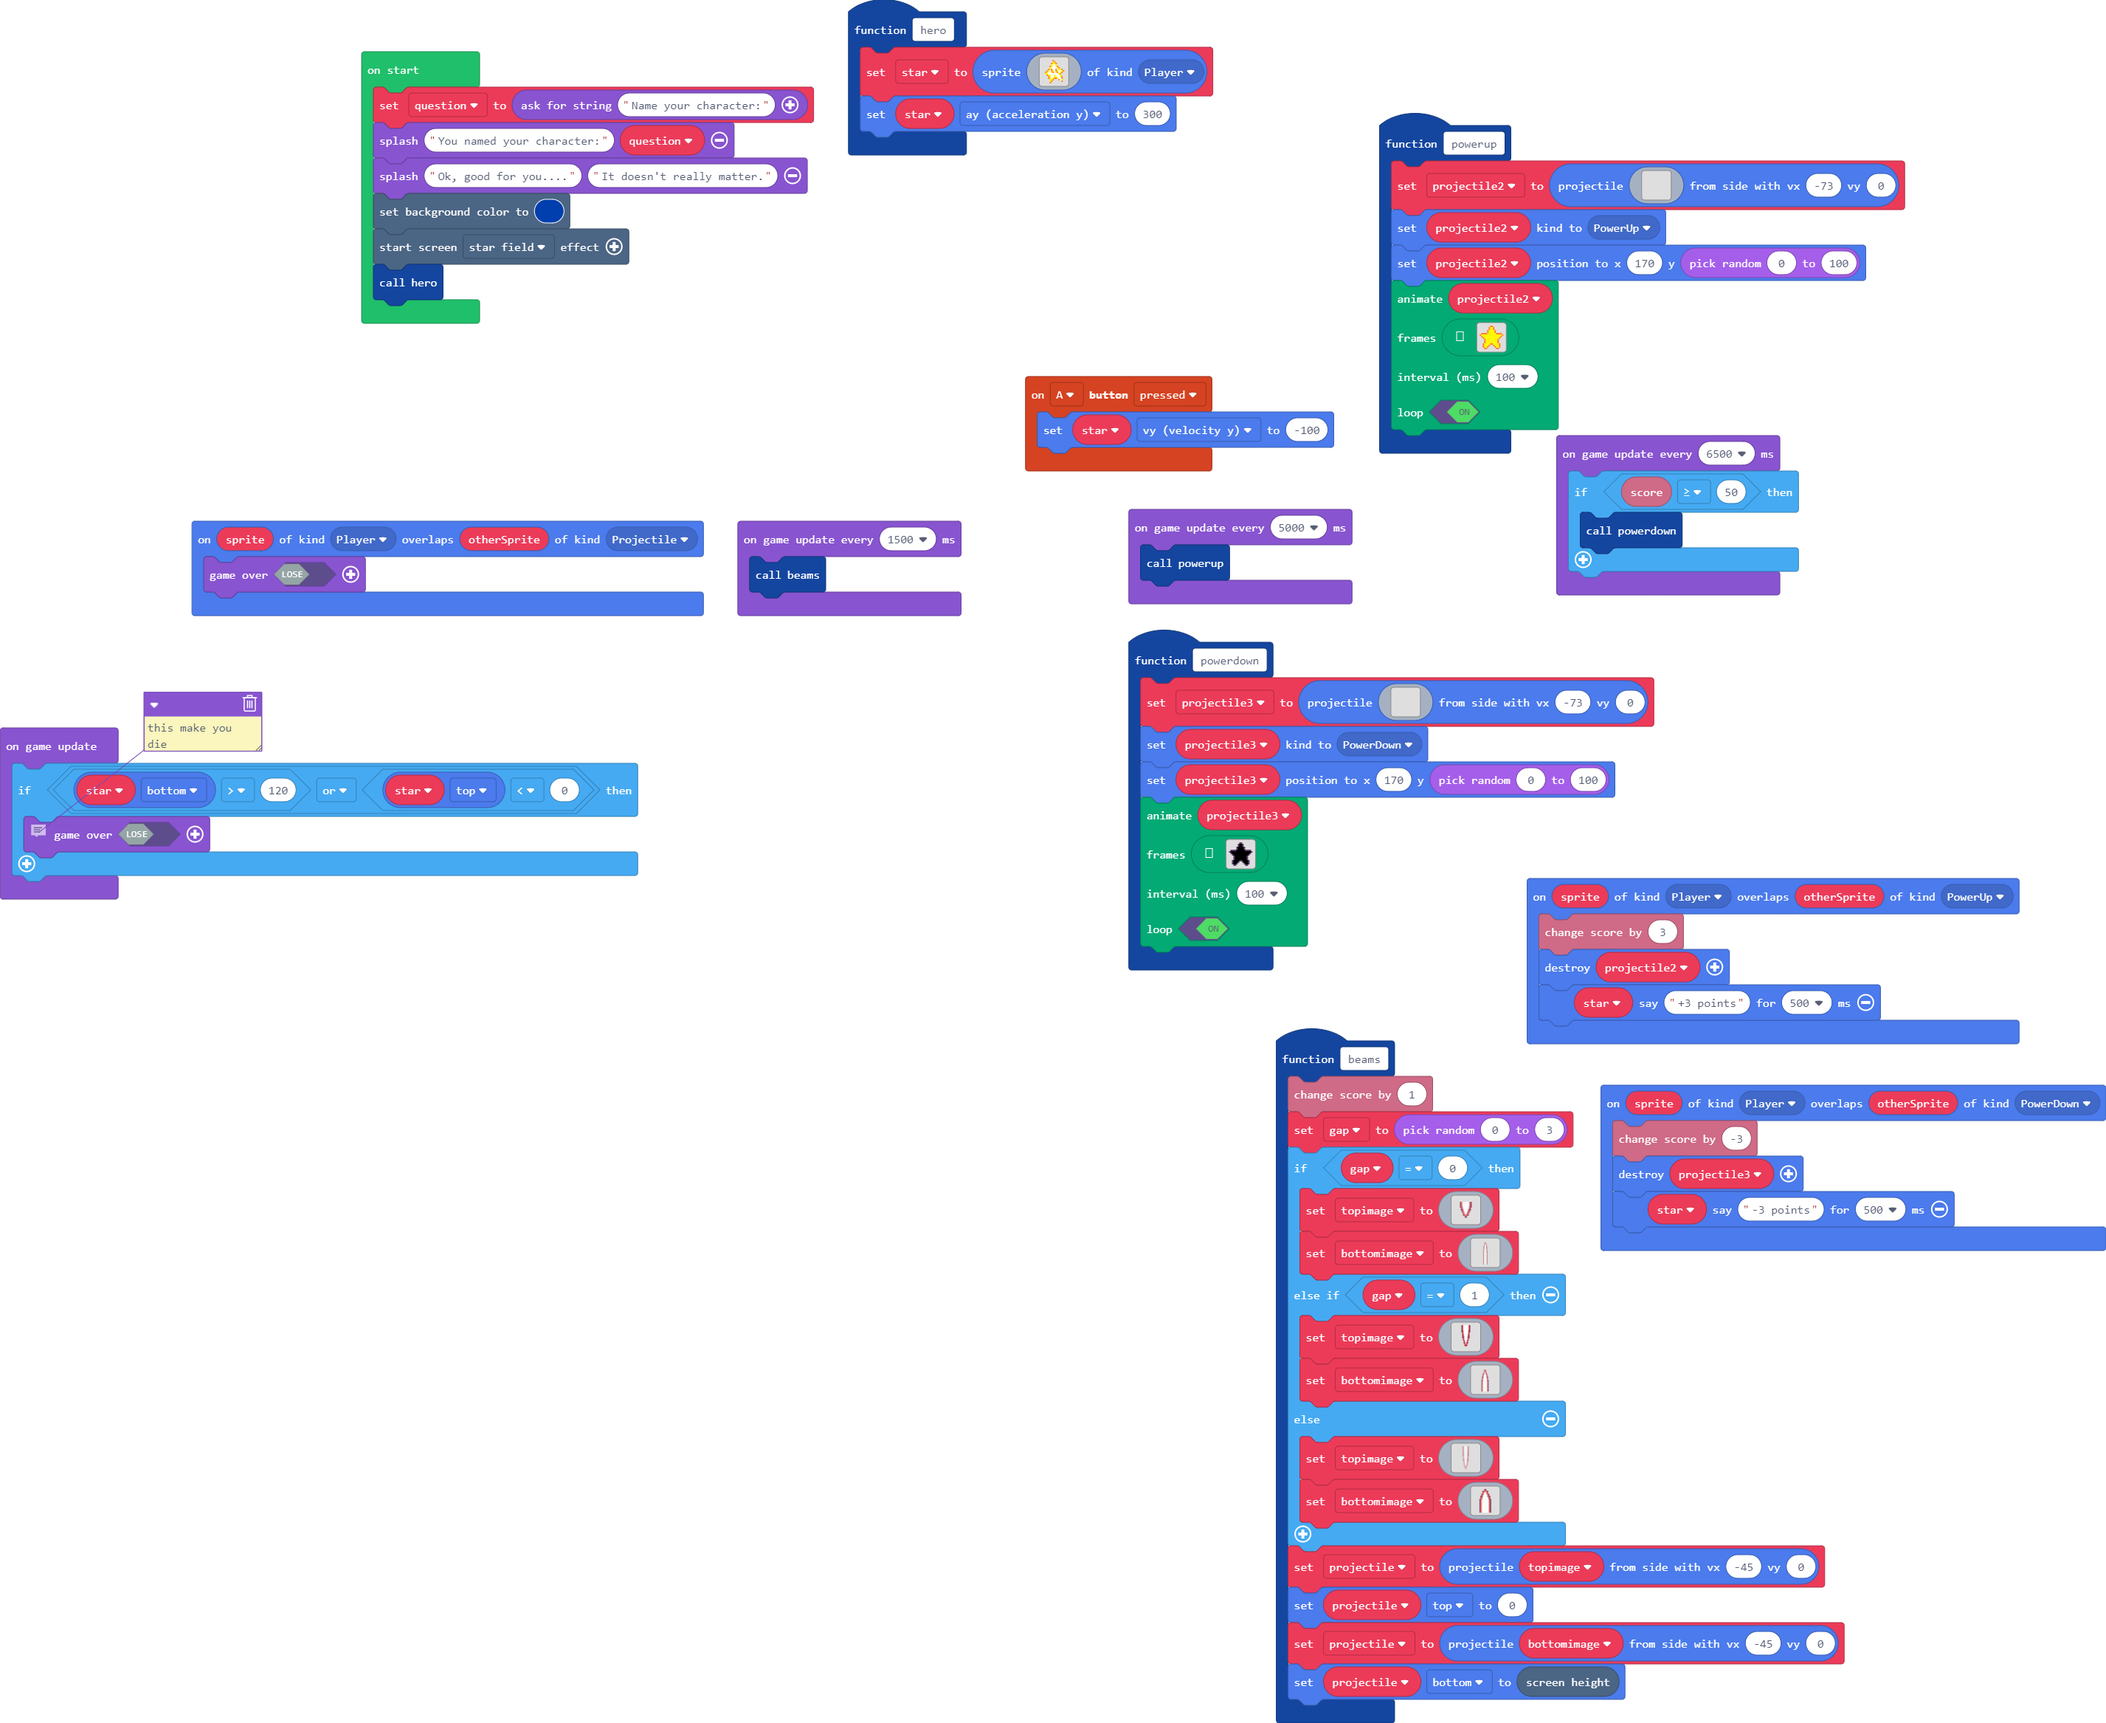
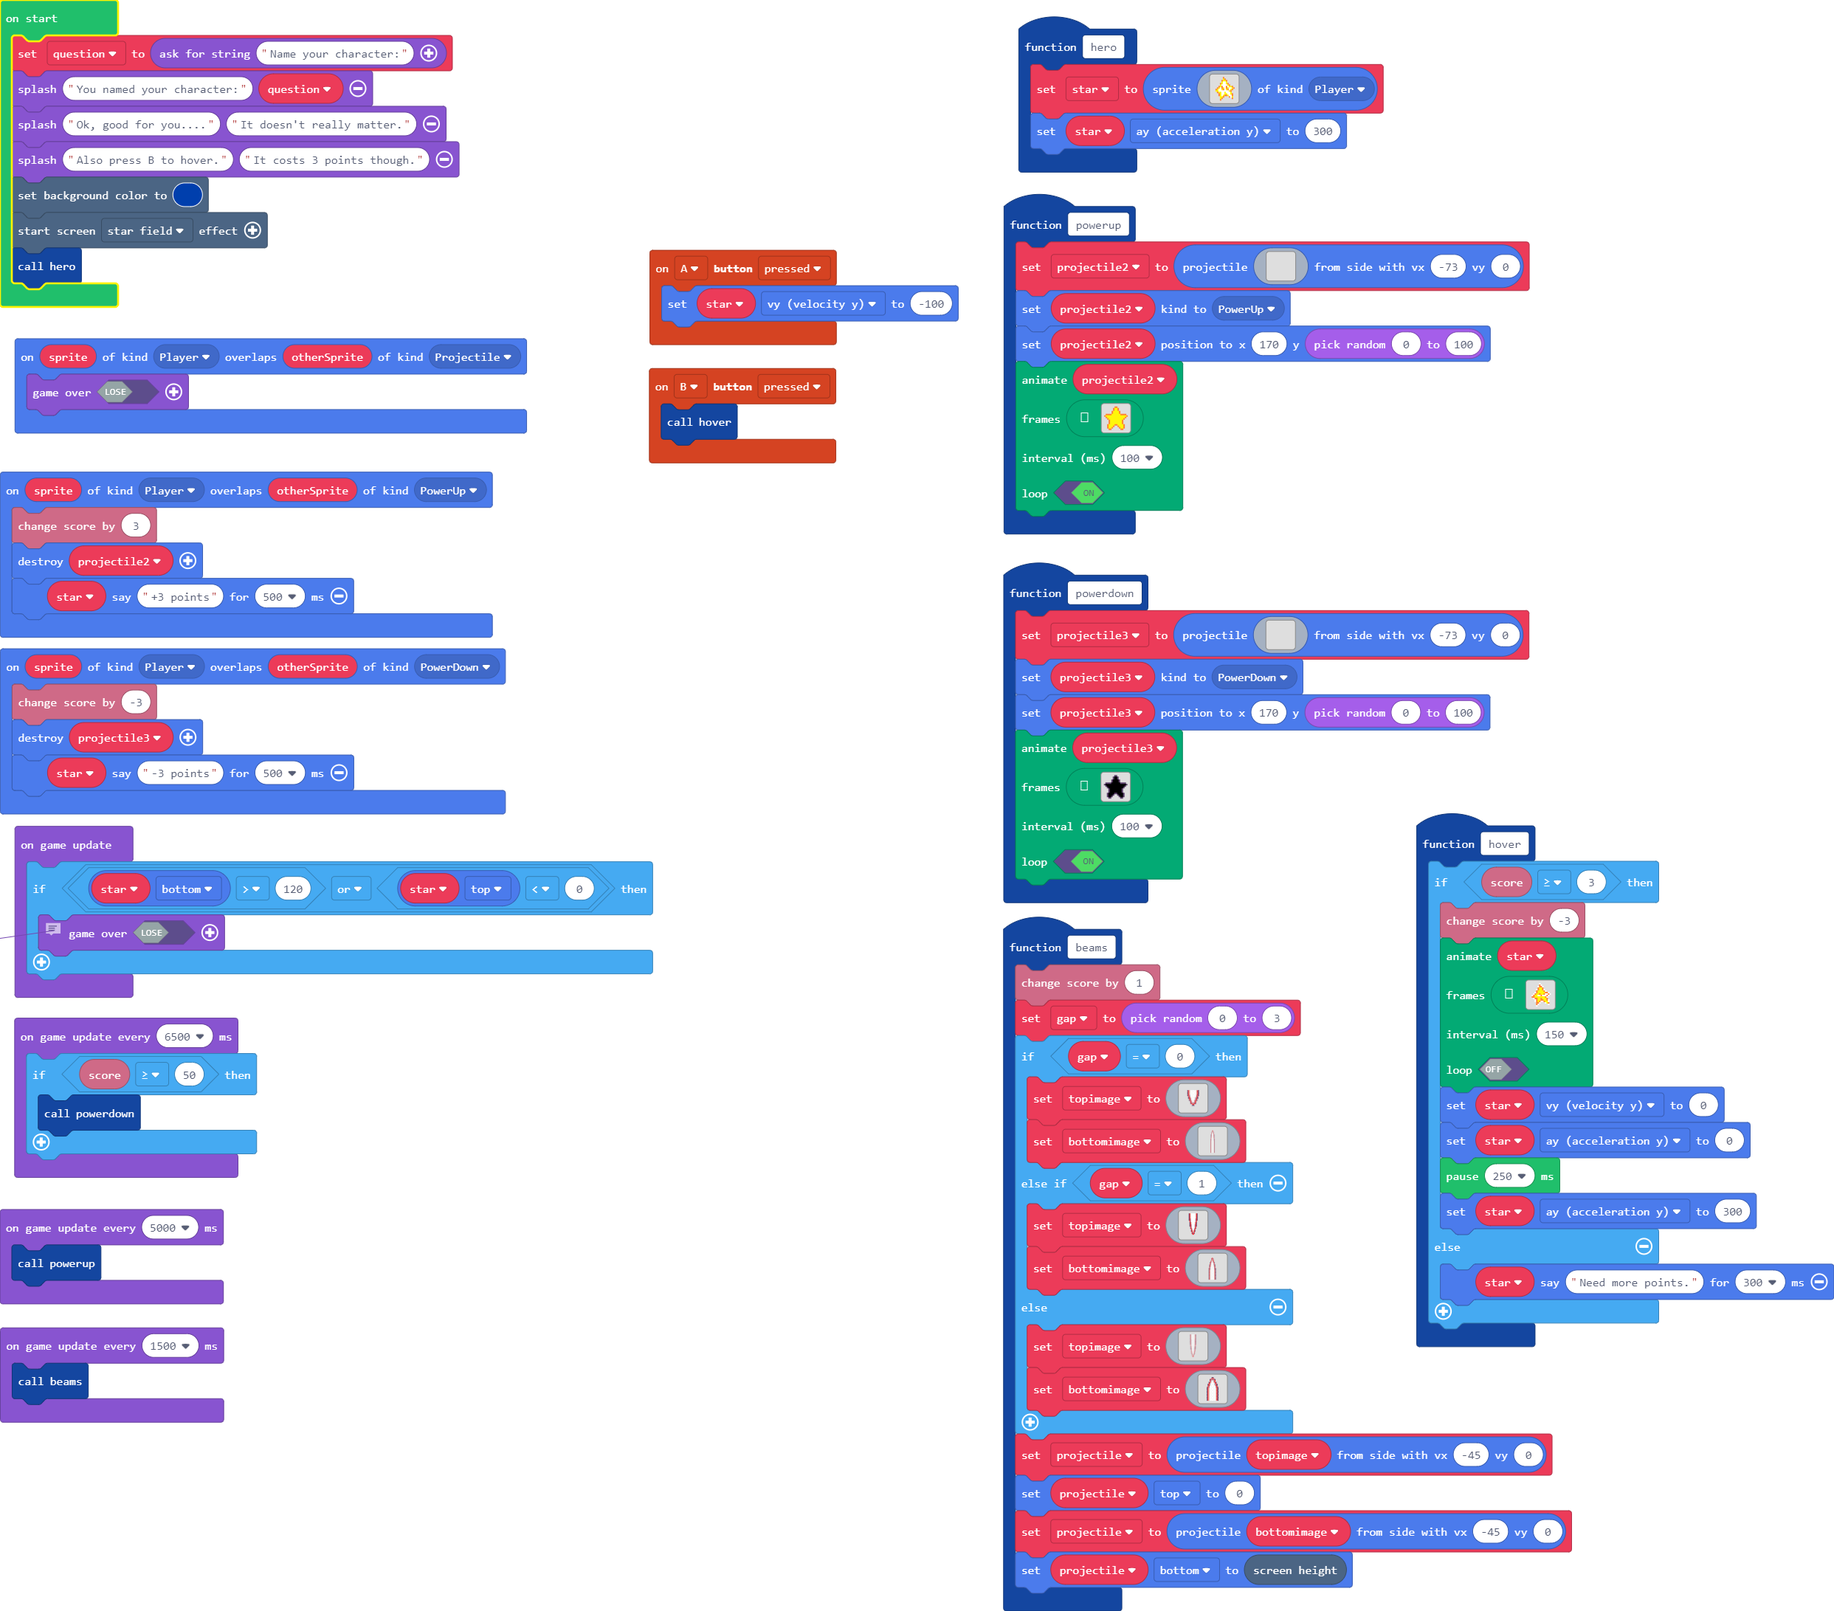
Update main.blocks, main.ts

diff --git a/main.ts b/main.ts
@@ -99,6 +99,91 @@ f f a a a a a a a a a f . . . .
     true
     )
 }
+function hover () {
+    if (info.score() >= 3) {
+        info.changeScoreBy(-3)
+        animation.runImageAnimation(
+        star,
+        [img`
+. . . . . . . 1 . . . . . . . . 
+. . . . . . . 4 1 . . . . . . . 
+. . . . . . 1 4 4 1 . . . . . . 
+. . . . . . 4 5 5 4 . . . . . . 
+. . . . . 1 4 5 5 4 1 . . . . . 
+. . . . . 4 5 5 5 5 4 1 . . . . 
+. . . . 1 4 5 5 5 5 5 4 4 1 . . 
+. . . 1 4 5 5 4 5 5 4 1 1 4 1 . 
+. . 1 4 5 5 1 1 4 1 1 1 4 1 . . 
+. . 4 4 5 5 5 5 5 5 5 4 1 . . . 
+. . . 1 4 4 5 5 4 5 5 5 4 . . . 
+. . . . 1 4 5 5 4 4 5 5 4 1 . . 
+. . . . 1 4 5 4 1 1 4 5 5 1 . . 
+. . . . . 4 4 1 . . . 1 5 4 . . 
+. . . . . 4 1 . . . . . . 1 . . 
+. . . . . 1 . . . . . . . . . . 
+`,img`
+. . . . . . . 5 . . . . . . . . 
+. . . . . . . 1 5 . . . . . . . 
+. . . . . . 5 1 1 5 . . . . . . 
+. . . . . . 1 4 4 1 . . . . . . 
+. . . . . 5 1 4 4 1 5 . . . . . 
+. . . . . 1 4 4 4 4 1 5 . . . . 
+. . . . 5 1 4 4 4 4 4 1 1 5 . . 
+. . . 5 1 4 4 1 4 4 1 4 4 1 5 . 
+. . 5 1 4 4 5 5 1 5 5 4 1 5 . . 
+. . 1 1 4 4 4 4 4 4 4 1 5 . . . 
+. . . 5 1 1 4 4 1 4 4 4 1 . . . 
+. . . . 5 1 4 4 1 1 4 4 1 5 . . 
+. . . . 5 1 4 1 5 5 1 4 4 5 . . 
+. . . . . 1 1 5 . . . 5 4 1 . . 
+. . . . . 1 5 . . . . . . 5 . . 
+. . . . . 5 . . . . . . . . . . 
+`,img`
+. . . . . . . 4 . . . . . . . . 
+. . . . . . . 5 4 . . . . . . . 
+. . . . . . 4 5 5 4 . . . . . . 
+. . . . . . 5 1 1 5 . . . . . . 
+. . . . . 4 5 1 1 5 4 . . . . . 
+. . . . . 5 1 1 1 1 5 4 . . . . 
+. . . . 4 5 1 1 1 1 1 5 5 4 . . 
+. . . 4 5 1 1 5 1 1 5 1 1 5 4 . 
+. . 4 5 1 1 4 4 5 4 4 1 5 4 . . 
+. . 5 5 1 1 1 1 1 1 1 5 4 . . . 
+. . . 4 5 5 1 1 5 1 1 1 5 . . . 
+. . . . 4 5 1 1 5 5 1 1 5 4 . . 
+. . . . 4 5 1 5 4 4 5 1 1 4 . . 
+. . . . . 5 5 4 . . . 4 1 5 . . 
+. . . . . 5 4 . . . . . . 4 . . 
+. . . . . 4 . . . . . . . . . . 
+`,img`
+. . . . . . . 4 . . . . . . . . 
+. . . . . . . 5 4 . . . . . . . 
+. . . . . . 4 5 5 4 . . . . . . 
+. . . . . . 5 1 1 5 . . . . . . 
+. . . . . 4 5 1 1 5 4 . . . . . 
+. . . . . 5 1 1 1 1 5 4 . . . . 
+. . . . 4 5 4 1 1 4 1 5 5 4 . . 
+. . . 4 5 1 4 5 1 4 5 1 1 5 4 . 
+. . 4 5 1 1 5 4 1 5 4 1 5 4 . . 
+. . 5 5 1 1 1 1 1 1 1 5 4 . . . 
+. . . 4 5 5 1 1 5 1 1 1 5 . . . 
+. . . . 4 5 1 1 5 5 1 1 5 4 . . 
+. . . . 4 5 1 5 4 4 5 1 1 4 . . 
+. . . . . 5 5 4 . . . 4 1 5 . . 
+. . . . . 5 4 . . . . . . 4 . . 
+. . . . . 4 . . . . . . . . . . 
+`],
+        150,
+        false
+        )
+        star.vy = 0
+        star.ay = 0
+        pause(250)
+        star.ay = 300
+    } else {
+        star.say("Need more points.", 300)
+    }
+}
 function hero () {
     star = sprites.create(img`
 . . . . . . . 4 . . . . . . . . 
@@ -120,6 +205,9 @@ function hero () {
 `, SpriteKind.Player)
     star.ay = 300
 }
+controller.B.onEvent(ControllerButtonEvent.Pressed, function () {
+    hover()
+})
 sprites.onOverlap(SpriteKind.Player, SpriteKind.PowerUp, function (sprite, otherSprite) {
     info.changeScoreBy(3)
     projectile2.destroy()
@@ -498,6 +586,7 @@ let projectile3: Sprite = null
 let question = game.askForString("Name your character:")
 game.splash("You named your character:", question)
 game.splash("Ok, good for you....", "It doesn't really matter.")
+game.splash("Also press B to hover.", "It costs 3 points though.")
 scene.setBackgroundColor(8)
 effects.starField.startScreenEffect()
 hero()
